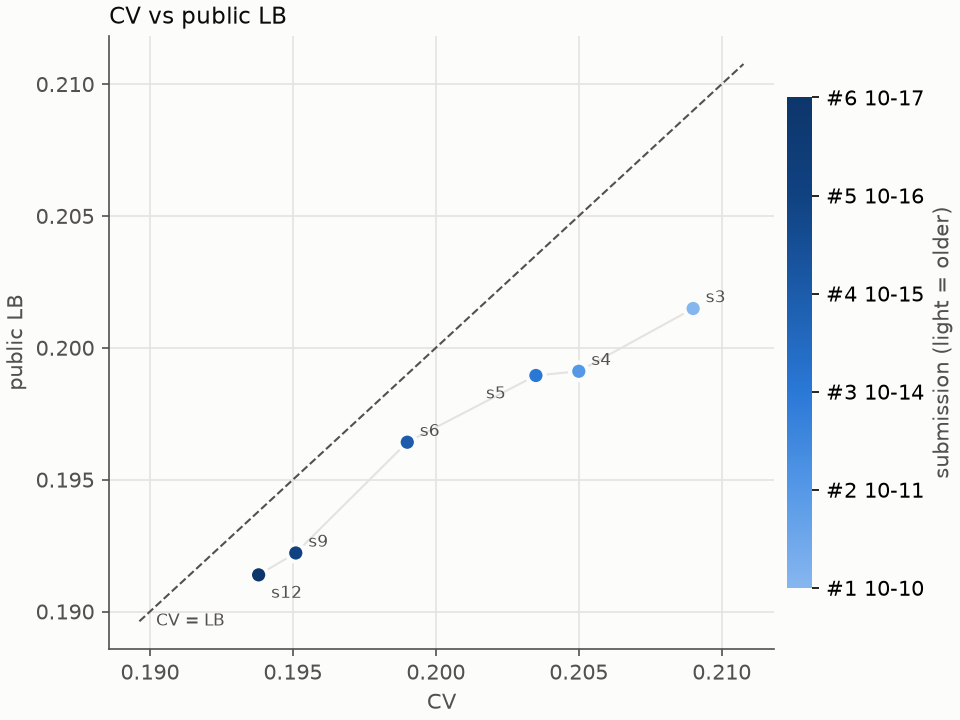
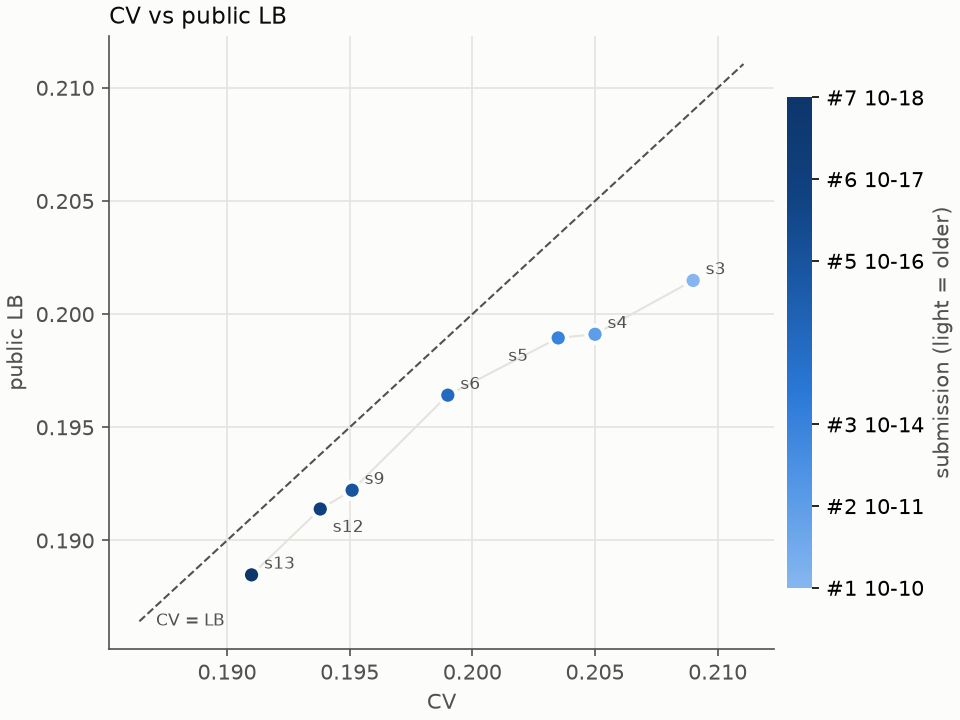
docs: record the S13 submission (LB 0.18848) and S16's result
S13's stacker average with TabPFN scored 0.18848 on the public LB, 0.0015
better than the six-point CV-LB line projected. As with S9, a change that
adds a different kind of member carried its full CV gain to the LB. The
line refit on seven points is LB = 0.052 + 0.72 x CV, residual sd 0.0008.

S16 tuned TabNet: alone it improves on the holdout (0.2105 -> 0.2082,
range excludes 0), but the stacker average stays at 0.1912, no change
from S14, so it is not adopted. Glossary gains constant liar and
deterministic mode, both met in S16.

diff --git a/docs/roadmap.md b/docs/roadmap.md
@@ -8,9 +8,9 @@ wrap-up when the order or the pending decisions change.
 
 | Item | Value |
 |---|---|
-| Our best public LB | 0.19139（S12 `stacker_average`、2026-10-17、CV 0.1938）。S9 は 0.19222、S6 は 0.19642、S5 は 0.19895、S4 は 0.19911、S3 は 0.20149 |
+| Our best public LB | 0.18848（S13 `stacker_average_with_tabpfn`、2026-10-18、CV 0.1910）。S12 は 0.19139、S9 は 0.19222、S6 は 0.19642、S5 は 0.19895、S4 は 0.19911、S3 は 0.20149 |
 | Best public notebook | なし（公開ノートブック0件、2026-10-10） |
-| LB top and medal line | 1位は babalabにちは の 0.19086（2026-10-16）、3位は Syota KOZUKA の 0.19207。S12 で2位（2026-10-17）。AI単独ベースライン（0.19726）は学生4チームが上回った。メダルなし |
+| LB top and medal line | S13 で1位（2026-10-18）。2位は FOLDER_CYBER の 0.19039、3位は babalabにちは の 0.19086、4位は Mitprägung の 0.19162。AI単独ベースライン（0.19726）は学生5チームが上回った。メダルなし |
 | CV of the current baseline | S13 スタッキングの平均＋TabPFN 0.1910（holdout RMSLE）。S12 スタッキングの平均 0.1938、S10 スタッキング 0.1950、S9 スタッキング 0.1951。単独の最良は S13 TabPFN 0.1948、GBDT では S6 CatBoost 0.1990。S5 LightGBM 0.2035、S4 0.2050、S3 0.2090、S1 0.2988、下限 0.8137。S1 の leak 点検は clean |
 
 ## 方針（2026-10-10 にユーザーと決定）
@@ -48,11 +48,11 @@ wrap-up when the order or the pending decisions change.
 | S10 | `s10_final.py` | 仕上げ（LightGBM の seed 平均、CatBoost の本数、最終のアンサンブル、最終2提出の候補） | #25 | 済（stacking 0.1950、重み付き 0.1959） |
 | S11 | `s11_pseudo.py` | pseudo label（S10 の予測を test の仮の正解にして LightGBM を学習し直す） | #34 | 済（生徒単独は S5 より -0.0063〜-0.0069 だが、S5 と教師の単純な平均と同じ。スタッキングに戻すと差なし、不採用） |
 | S12 | `s12_black_magic.py` | 黒魔術（MLP・LightGBM のスタッキングと、スタッキングの平均。俵さんの記事にならう） | #35 | 済（スタッキングの平均 0.1938、S10 より -0.0012。採用し、最終提出の候補に追加。提出 LB 0.19139） |
-| S13 | `s13_tabular_dl.py` | 表データ向けの深層学習（TabNet、TabPFN-3.5）をメンバーに足す | #36 #37 | 済（TabPFN 単独 0.1948 で単独最良。S12 のスタッキングの平均に足して 0.1910、S12 より -0.0028。採用し、最終提出の候補に追加。TabNet は不採用。leak 点検は clean） |
+| S13 | `s13_tabular_dl.py` | 表データ向けの深層学習（TabNet、TabPFN-3.5）をメンバーに足す | #36 #37 | 済（TabPFN 単独 0.1948 で単独最良。S12 のスタッキングの平均に足して 0.1910、S12 より -0.0028。採用し、最終提出の候補に追加。TabNet は不採用。leak 点検は clean。提出 LB 0.18848） |
 | S14 | `s14_tuning.py` | ハイパーパラメータ探索（Optuna）。CatBoost、LightGBM、MLP、XGBoost の設定を内側の分割（2024Q3〜Q4）で探し、holdout で1回だけ確かめてから、S13 の手順でスタッキングし直す | #38 #39 #40 #41 #42 | 済（holdout で XGBoost -0.0106、MLP -0.0051。CatBoost と LightGBM は探索期間の改善が holdout で消えた。スタッキングの平均 0.1911 で S13 と差なし、不採用） |
 | S15 | `s15_more_stack_rows.py` | 2段目の学習行を増やす。全メンバーで 2024Q3〜Q4 も予測し、2段目を 2024Q3〜2025Q2 で学習する | #43 | 済（スタッキングの平均 0.19096、S14 より -0.00017 で範囲がわずかに 0 をまたぎ不採用。非線形の2段目が一番得をした: LightGBM -0.0008、MLP -0.0004） |
-| S16 | `s16_tabnet_tuning.py` | TabNet の設定を探す（S14 と同じ内側の分割。先に seed によるぶれを測る） | #44 | 実行中（2026-10-17 19:02 から、翌朝まで） |
-| S17 | `s17_tabpfn_context.py` | TabPFN の文脈を増やす・推定の回数を増やす（内側の分割で3〜4通りを手で比べる。重み 0.56 のメンバーなので、改善がスタッキングに出やすい） | #45 | 10/18 朝、S16 の後に GPU で実行 |
+| S16 | `s16_tabnet_tuning.py` | TabNet の設定を探す（S14 と同じ内側の分割。先に seed によるぶれを測る） | #44 | 済（TabNet 単独は seed 平均で 0.2105 → 0.2082、holdout でも -0.0023 で範囲が 0 をまたがない。スタッキングの平均は 0.1912 で S14 と差なし、不採用） |
+| S17 | `s17_tabpfn_context.py` | TabPFN の文脈を増やす・推定の回数を増やす（内側の分割で3〜4通りを手で比べる。重み 0.56 のメンバーなので、改善がスタッキングに出やすい） | #45 | 10/18、GPU で実行 |
 
 提出は段階ごとに最大1回で、出すかどうかはユーザーが決める。S1 は「もう少し向上させてから」で見送り（2026-10-10）。提出枠は 10/10〜10/21 の12回。最初から最良を出さず、段階の順に1日1回ずつ少しずつ出す（2026-10-11 ユーザー）。
 
@@ -60,7 +60,7 @@ wrap-up when the order or the pending decisions change.
 
 ## Decisions for the user
 
-- 次の提出をいつ、どれにするか（S3 は 2026-10-10、S4 は 2026-10-11、S5 は 2026-10-14、S6 は 2026-10-15、S9 は 2026-10-16、S12 は 2026-10-17 に提出済み。予定は 10/18 に S13（LB 0.1895〜0.1899 の見込み）。S14 はスタッキングの平均が S13 と変わらなかったので、10/19 以降の枠の使い道（S14、S15、S16、TabPFN 単独）は結果を見てユーザーが決める。どれも提出はユーザーの OK を待つ）。作成・検査済みの提出ファイル: S1 `lgbm_raw`（0.2988）、S3 `plus_notation`（0.2090）、S4 `hedonic_linear`（0.2050）、S5 `all_three`（0.2035）、S6 `catboost`（0.1990）、S6 `xgboost`（0.2103）、S7 `mlp`（0.2168）ほか、S9 `stacking`（0.1951）・`weighted_average`（0.1960）・`simple_average`（0.2054）、S10 `stacking`（0.1950）・`weighted_average`（0.1959）・`lightgbm_seed_avg`（0.2022）・`catboost_long`（0.1990）、S12 `stacker_average`（0.1938）、S13 `stacker_average_with_tabpfn`（0.1910）・`tabpfn`（0.1948）
+- 次の提出をいつ、どれにするか（S3 は 2026-10-10、S4 は 2026-10-11、S5 は 2026-10-14、S6 は 2026-10-15、S9 は 2026-10-16、S12 は 2026-10-17、S13 は 2026-10-18 に提出済み。残りの枠は 10/19〜10/21 の3回。S14〜S16 はスタッキングの平均が S13 と変わらなかった（直線の見込みは LB 0.1893 前後）ので、枠の使い道（S17、S14〜S16、TabPFN 単独、最終2提出）は S17 の結果を見てユーザーが決める。どれも提出はユーザーの OK を待つ）。作成・検査済みの提出ファイル: S1 `lgbm_raw`（0.2988）、S3 `plus_notation`（0.2090）、S4 `hedonic_linear`（0.2050）、S5 `all_three`（0.2035）、S6 `catboost`（0.1990）、S6 `xgboost`（0.2103）、S7 `mlp`（0.2168）ほか、S9 `stacking`（0.1951）・`weighted_average`（0.1960）・`simple_average`（0.2054）、S10 `stacking`（0.1950）・`weighted_average`（0.1959）・`lightgbm_seed_avg`（0.2022）・`catboost_long`（0.1990）、S12 `stacker_average`（0.1938）、S13 `stacker_average_with_tabpfn`（0.1910）・`tabpfn`（0.1948）
 - 最終2提出の候補: S13 `stacker_average_with_tabpfn`（CV 0.1910、最良）、S12 `stacker_average`（0.1938）、S10 `stacking`（0.1950）、S10 `weighted_average`（0.1959、重みが0以上で保守的）。どちらも S4 のヘドニック指数の外挿が前提。S4 の提出で CV と LB は同じ向きに動いた（CV -0.0040、LB -0.0024、#3）
 - S9: stacking は「2025Q1 で fit して Q2 で採点、逆向きも」の方式で進める（2026-10-10、ユーザーの「ガンガン進めていい」を受けて決定）
 - holdout の集約特徴の非対称（S5 から、目的変数は使わない）: 地区・駅の集約と件数に holdout の行が入るため、CV が 0.0004 楽観的になる。全メンバーに同じようにかかるので直さず記録した（2026-10-16、`docs/reviews/20261016-s13_tabular_dl-leak.md`）。直すなら全メンバーの再学習が要る

diff --git a/docs/experiments.md b/docs/experiments.md
@@ -22,7 +22,7 @@
 | s12_black_magic | stacker_average | 0.1938 | 0.19139 | s10_final | rmsle | stacker_average stacker on the S10 members (#35) | output/s12_black_magic/stacker_average |
 | s13_tabular_dl | stacker_average_with_both | 0.1910 |  | s12_black_magic | rmsle | S12 stacker average with tabnet and tabpfn added (#36 #37) | output/s13_tabular_dl/stacker_average_with_both |
 | s13_tabular_dl | stacker_average_with_tabnet | 0.1938 |  | s12_black_magic | rmsle | S12 stacker average with tabnet added (#36 #37) | output/s13_tabular_dl/stacker_average_with_tabnet |
-| s13_tabular_dl | stacker_average_with_tabpfn | 0.1910 |  | s12_black_magic | rmsle | S12 stacker average with tabpfn added (#36 #37) | output/s13_tabular_dl/stacker_average_with_tabpfn |
+| s13_tabular_dl | stacker_average_with_tabpfn | 0.1910 | 0.18848 | s12_black_magic | rmsle | S12 stacker average with tabpfn added (#36 #37) | output/s13_tabular_dl/stacker_average_with_tabpfn |
 | s13_tabular_dl | tabnet | 0.2201 |  | s12_black_magic | rmsle | TabNet on the S5 feature set (#36) | output/s13_tabular_dl/tabnet |
 | s13_tabular_dl | tabpfn | 0.1948 |  | s12_black_magic | rmsle | TabPFN-3.5, context = the 50000 most recent rows (#37) | output/s13_tabular_dl/tabpfn |
 | s14_tuning | catboost_tuned | 0.1994 |  | s13_tabular_dl | rmsle | catboost with the settings Optuna chose on 2024Q3-Q4 (#39) | output/s14_tuning/catboost_tuned |
@@ -31,6 +31,9 @@
 | s14_tuning | stacker_average_tuned | 0.1911 |  | s13_tabular_dl | rmsle | S13 stacker average with the Optuna-tuned LightGBM, CatBoost, XGBoost and MLP (#38-#42) | output/s14_tuning/stacker_average_tuned |
 | s14_tuning | xgboost_tuned | 0.1998 |  | s13_tabular_dl | rmsle | xgboost with the settings Optuna chose on 2024Q3-Q4 (#42) | output/s14_tuning/xgboost_tuned |
 | s15_more_stack_rows | stacker_average_with_block | 0.1910 |  | s14_tuning | rmsle | S14 stacker average with the members' 2024Q3-Q4 predictions added to every stacker's training rows (#43) | output/s15_more_stack_rows/stacker_average_with_block |
+| s16_tabnet_tuning | stacker_average_tuned_with_tabnet | 0.1912 |  | s15_more_stack_rows | rmsle | S14 stacker average with the tuned TabNet added (#44) | output/s16_tabnet_tuning/stacker_average_tuned_with_tabnet |
+| s16_tabnet_tuning | tabnet_s13_settings_seed_avg | 0.2105 |  | s15_more_stack_rows | rmsle | S13 TabNet settings, averaged over seeds [0, 1, 2] (#44) | output/s16_tabnet_tuning/tabnet_s13_settings_seed_avg |
+| s16_tabnet_tuning | tabnet_tuned_seed_avg | 0.2082 |  | s15_more_stack_rows | rmsle | TabNet with the settings Optuna chose on 2024Q3-Q4, averaged over seeds [0, 1, 2] (#44) | output/s16_tabnet_tuning/tabnet_tuned_seed_avg |
 | s1_baseline | floor_median | 0.8137 |  | none | rmsle | constant training median (#7) | output/s1_baseline/floor_median |
 | s1_baseline | lgbm_raw | 0.2988 |  | none | rmsle | minimal conversion, log1p target (#6, #8) | output/s1_baseline/lgbm_raw |
 | s3_features | drop_extremes | 0.2111 |  | s1_baseline | rmsle | adopted S3 features, extreme price-per-m2 rows dropped from training (#31) | output/s3_features/drop_extremes |

diff --git a/docs/glossary.md b/docs/glossary.md
@@ -68,6 +68,8 @@ Add a row when a new term enters use. The pinned Glossary Issue's body is this f
 | ハイパーパラメータ探索 | 木の深さや学習率など、学習の前に決める設定を、いくつも試して良いものを選ぶこと。同じ検証データで何度も選ぶと、そのデータにたまたま合う設定が選ばれる（S14） |
 | Optuna | ハイパーパラメータ探索のライブラリ。前の試行の結果から、次に試す設定を選ぶ（S14） |
 | TPE | Tree-structured Parzen Estimator。Optuna の標準の探索方法。良かった試行と悪かった試行の設定の分布を比べ、良い側に寄った設定を次に試す |
+| constant liar | 並列や中断で結果がまだ出ていない試行を、仮の悪い値で埋めて次の設定を選ぶ TPE の工夫。Optuna 5.0 では既定で有効で、探索を止めて再開すると RUNNING のまま残った試行が道筋を変える。S16 では無効にした |
+| 決定的なモード（deterministic mode） | GPU の計算の順番を固定し、同じ seed なら毎回同じ結果を出す PyTorch の設定。少し遅くなる。S16 の TabNet で使った（`torch.use_deterministic_algorithms(True)`） |
 | 黒魔術（NN stacking） | Kaggle で、NN などの非線形モデルで行うスタッキングの俗称。手順が複雑で過学習しやすい。S12 では MLP と LightGBM のスタッキングと、その平均を試した（#35） |
 | TabNet | 表データ向けのニューラルネット。行ごとに注意機構（attention）で見る特徴を選びながら、何段階かに分けて予測を組み立てる（S13、#36） |
 | TabPFN | 人工的に作った大量の表データで事前学習したモデル。新しいデータで重みを学習し直さず、学習データの行を文脈として読み込んで、その場で予測する（S13、#37） |

diff --git a/docs/submissions.md b/docs/submissions.md
@@ -8,3 +8,4 @@
 | 2026-10-15 | s6_gbdt | catboost | 0.1990 | 0.19642 | S6 CatBoost on the S5 feature set |  | submission.csv |
 | 2026-10-16 | s9_ensemble | stacking | 0.1951 | 0.19222 | S9 Ridge stacking of the S5-S7 members (LightGBM, CatBoost, XGBoost, MLP, RandomForest, Ridge) |  | submission.csv |
 | 2026-10-17 | s12_black_magic | stacker_average | 0.1938 | 0.19139 | S12 average of four stackers (Ridge, Ridge by price type, MLP, LightGBM) on the S10 members |  | submission.csv |
+| 2026-10-18 | s13_tabular_dl | stacker_average_with_tabpfn | 0.1910 | 0.18848 | S13 average of four stackers on the S10 members plus TabPFN-3.5 |  | submission.csv |
